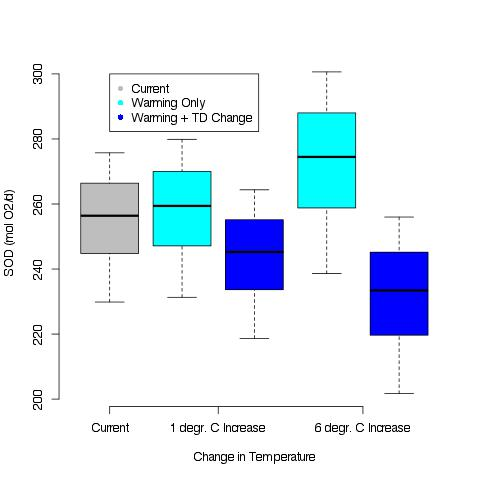
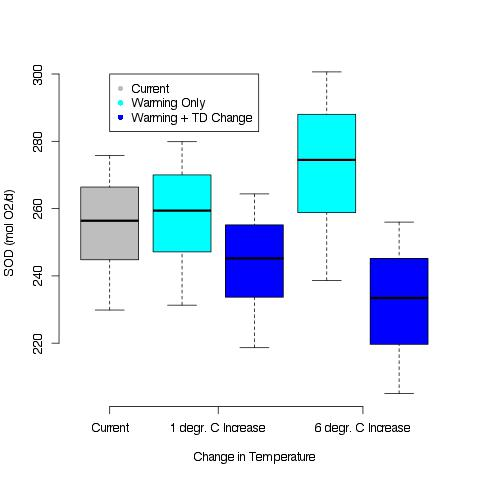
Converted the negative epilimnetic area in the 6 degree temperature increase model to 0, since area cannot be a negative number.  I then reacalculated the SOD for the whole lake

diff --git a/revisions/revision_analysis/code/climate_change_range_analysis.md b/revisions/revision_analysis/code/climate_change_range_analysis.md
@@ -338,9 +338,11 @@ For the 1 degree increase in temperature the mixed sediment areas (ha) are in `l
 
     epi.SOD.tempTrans1 <- temp.SOD.areal.incr[1] * (low1.mix.A * 10000)
 
-and the SOD above the thermocline for the 6 degree temp. increase, including the change in thermocline depth would be:
+The earliest day (Julian day 170) value of the epilimnetic area is negative (see `low6.mix.A` above).  Obviously this cannot be true and the lowest the epi area can fall is 0, so the negative number is replaced with a 0 using `(c(0, low6.mix.A[-1])`
 
-    epi.SOD.tempTrans6 <- temp.SOD.areal.incr[6] * (low6.mix.A * 10000)
+The SOD above the thermocline for the 6 degree temp. increase, including the change in thermocline depth would be:
+
+    epi.SOD.tempTrans6 <- temp.SOD.areal.incr[6] * (c(0, low6.mix.A[-1]) * 10000) # changes neg area to 0
 
 #### Output
 
@@ -349,8 +351,8 @@ and the SOD above the thermocline for the 6 degree temp. increase, including the
     [8]  60870.55  70185.76  83594.41 101531.02
 
     epi.SOD.tempTrans6
-    [1] -5266.308 13515.651 29022.513 53177.795 67819.454 80727.946 17350.552
-    [8] 34956.440 44999.272 59399.982 78552.320
+    [1]     0.00 13515.65 29022.51 53177.79 67819.45 80727.95 17350.55 34956.44
+    [9] 44999.27 59399.98 78552.32
 
 ### Calculate the change in whole-lake SOD with warming and change in transparency/thermocline depth
 
@@ -358,8 +360,10 @@ Assuming that the warming of the epilimnion does not change the conditions of th
 
 The sediment area below the thermocline for 1 and 6 degr C change in temperature with warming and TD change is calculated as the difference between the total lake sediment area (m2) `GTH91.case.ms$Area * 10000` and the estimated epilimnetic sediment area `low1.mix.A` and `low6.mix.A`
 
+The negative epi area is changed to 0 as above.
+
     hypo.SOD.tempTrans1 <- hypo.SOD.areal * ((GTH91.case.ms$Area * 10000) - low1.mix.A * 10000)
-    hypo.SOD.tempTrans6 <- hypo.SOD.areal * ((GTH91.case.ms$Area * 10000) - low6.mix.A * 10000)
+    hypo.SOD.tempTrans6 <- hypo.SOD.areal * ((GTH91.case.ms$Area * 10000) - c(0, low6.mix.A[-1]) * 10000) # changed neg area to 0
 
 #### Output
 
@@ -368,8 +372,8 @@ The sediment area below the thermocline for 1 and 6 degr C change in temperature
     [9] 204997.0 204996.4 204995.7
 
     hypo.SOD.tempTrans6
-    [1] 205000.2 204999.5 204998.9 204998.0 204997.5 204997.0 204999.4 204998.7
-    [9] 204998.3 204997.8 204997.1
+    [1] 205000.0 200021.2 194308.9 185410.7 180017.1 175261.9 198608.5 192123.0
+    [9] 188423.4 183118.6 176063.4
 
 
 Calculate the whole-lake SOD as the sum of the epi and hypo SOD
@@ -385,10 +389,10 @@ Calculate the whole-lake SOD as the sum of the epi and hypo SOD
     [9] 275182.8 288590.8 306526.7
 
     wholeLake.SOD.tempTrans6
-    [1] 199733.9 218515.2 234021.4 258175.8 272817.0 285725.0 222349.9 239955.2
-    [9] 249997.6 264397.8 283549.4
+    [1] 205000.0 213536.8 223331.4 238588.5 247836.5 255989.9 215959.1 227079.4
+    [9] 233422.7 242518.6 254615.7
 
-
+    
 ##### Figure; Plot of the change in whole-lake SOD (mmol O2/d) in lake GTH 91 following a 0, 1, or 6 degree increase in temperature with and without a change in transparency/thermocline depth.
 
     jpeg("./output/whole_lake_SOD_temp_trans.jpg")
@@ -447,3 +451,9 @@ Calculate the whole-lake SOD as the sum of the epi and hypo SOD
 * hypo.SOD = the SOD of the sediments below the thermocline of GTH 91 (mmol O2/d) based on the changes in the hypolimnetic sediment area during the modeled period.  This assumes no effect of epilimnetic warming on hypo SOD.
 
 * wholeLake.SOD.temp(0, 1, 6) = the sum of the SOD above and below the thermocline for lake GTH 91 during the modelled period (mmol O2/d). The range od numbers represents 0, 1 or 6 d C warming.
+
+* epi.SOD.tempTrans(1, 6) = the SOD of the epilimnion of GTH 91 (mmol O2/d) including a 1 or 6 degr. increase in temperature and the appropriate change in transparency.  The value is calculated as the areal SOD rate multiplied by the epilimnetic sediment area.
+
+* hypo.SOD.tempTrans(1, 6) = the SOD of the hypolimnion of GTH 91 (mmol O2/d) including a 1 or 6 degr. increase in temperature and the appropriate change in transparency.  The value is calculated as the areal SOD rate multiplied by the epilimnetic sediment area minus the total lake area.
+
+* wholeLake.SOD.tempTrans(1, 6) = the sum of the epi and hypolimnetic SOD (mmol O2/d) including a 1 or 6 degr. increase in temperature and the appropriate change in transparency.   
